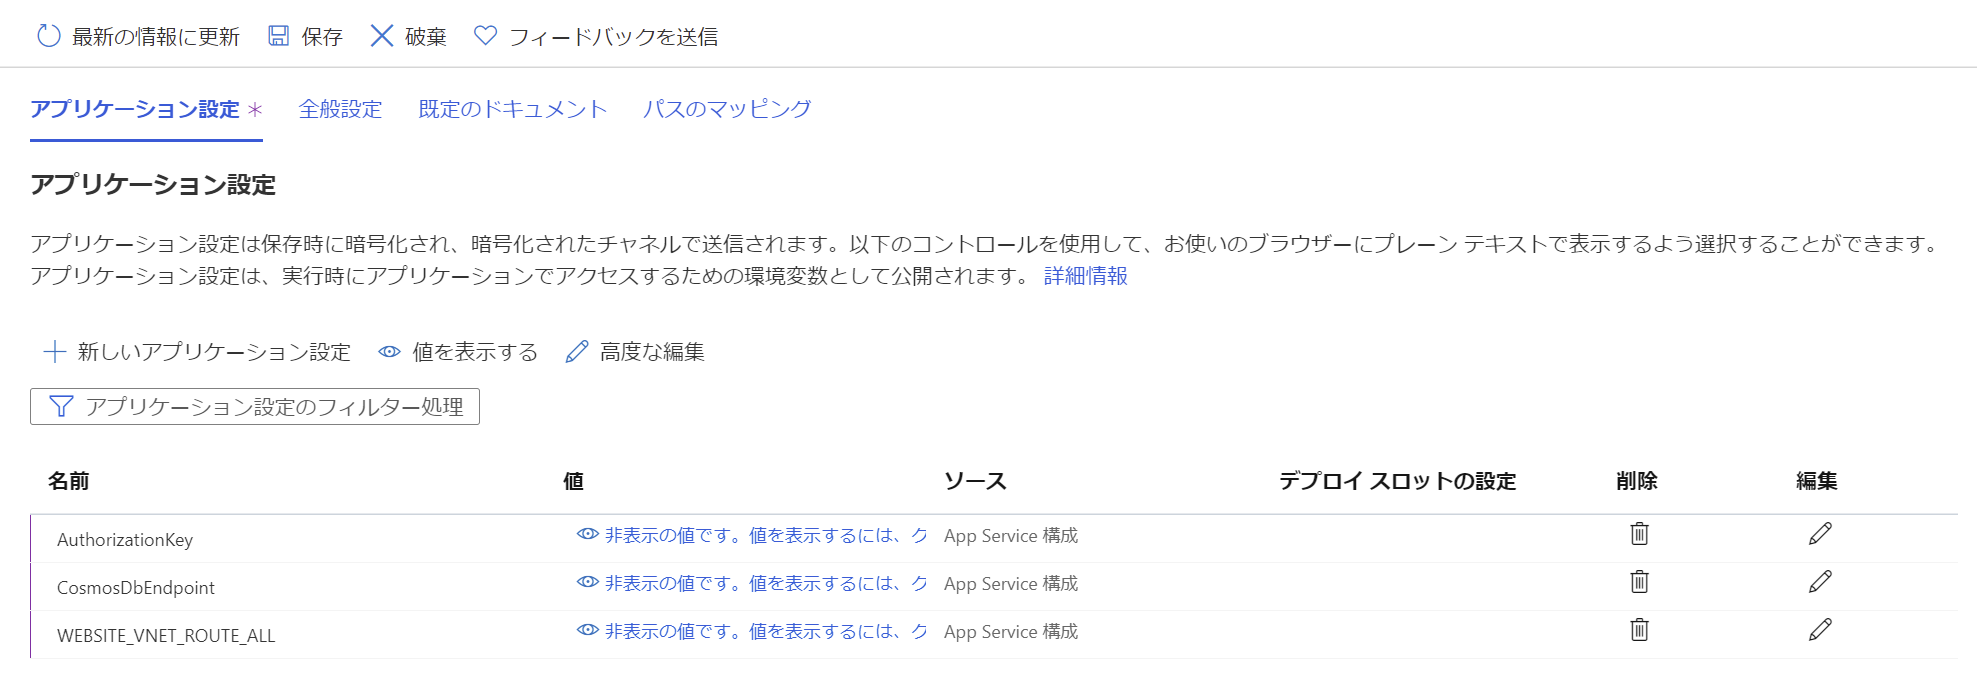
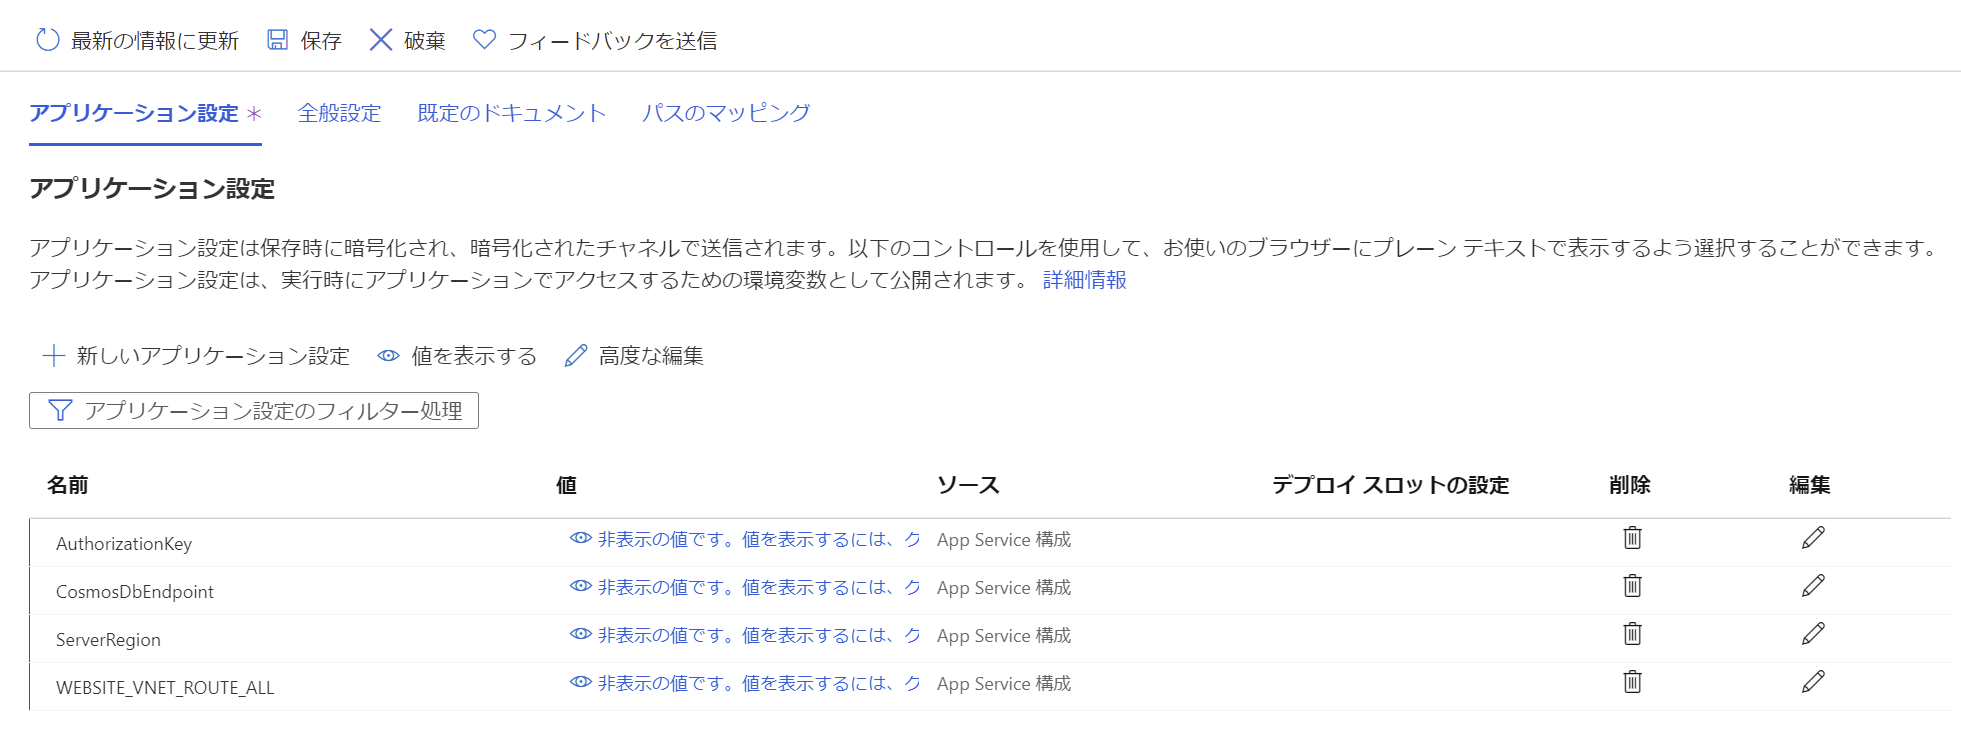
update

diff --git a/src/Web/Controllers/HomeController.cs b/src/Web/Controllers/HomeController.cs
@@ -29,9 +29,9 @@ public class HomeController : Controller
             CosmosClientOptions options = new CosmosClientOptions();
             options.ApplicationName = "App-Workshop";
 
-            if (serverRegion == "WestUS")
+            if (serverRegion == "JapanEast")
             {
-                options.ApplicationRegion = Regions.WestUS;
+                options.ApplicationRegion = Regions.JapanEast;
             }
             else if (serverRegion == "EastUS")
             {

diff --git a/HOL-step-by-step-Protect-and-Scale-Apps.md b/HOL-step-by-step-Protect-and-Scale-Apps.md
@@ -204,6 +204,8 @@ June 2022
 
   - **名前**: 任意（pl-cosmos-workshop-xxx など）
 
+  - **Network Interface Name**: 任意（既定のままで OK）
+
   - **地域**: 仮想ネットワークが展開されている地域を選択
 
     <img src="images/cosmos-private-endpoint-02.png" />
@@ -631,7 +633,7 @@ June 2022
 
   - **リソース グループ**: 任意（rg-worksohp-xx など）
 
-  - **リージョン**: (US) West US を選択
+  - **リージョン**: Japan East を選択
 
     <img src="images/create-resource-group-3.png" />
 
@@ -661,7 +663,7 @@ June 2022
 
   - **名前**: 任意（vnet-2 など）
 
-  - **地域**: (US) West US が選択されていることを確認
+  - **地域**: (Asia Pacific) Japan East が選択されていることを確認
 
     <img src="images/new-vnet-3.png" />
 
@@ -713,7 +715,7 @@ June 2022
 
     - **オペレーティング システム**: Windows
 
-    - **地域**: (US) West US が選択されていることを確認
+    - **地域**: (Asia Pacific) Japan East が選択されていることを確認
 
   - **App Service プラン**
 
@@ -777,7 +779,7 @@ June 2022
 
 - **リージョンの追加** をクリック
 
-- 読み取りリージョンに **West US** を選択し **OK** をクリック
+- 読み取りリージョンに **Japan East** を選択し **OK** をクリック
 
   <img src="images/replicate-db-2.png" />
 
@@ -833,7 +835,7 @@ June 2022
 
 - **仮想ネットワーク** タブでプライベート エンドポイントを作成する仮想ネットワーク、サブネットを選択
 
-  - **仮想ネットワーク**: West US へ作成した仮想ネットワーク
+  - **仮想ネットワーク**: Japan East へ作成した仮想ネットワーク
 
   - **サブネット**: Subnet-1 を選択
 
@@ -871,11 +873,13 @@ June 2022
 
     <img src="images/new-app-configuration-2.png" />
 
-- 同様の手順で２つアプリケーション設定を追加
+- 同様の手順で３つアプリケーション設定を追加
 
   - **名前**: AuthorizationKey　/　**値**: Cosmos DB アカウントのプライマリ キー
 
-  - **名前**: ServerRegion　/　**値**: WestUS
+  - **名前**: WEBSITE_VNET_ROUTE_ALL　/　**値**: 1
+
+  - **名前**: ServerRegion　/　**値**: JapanEast
 
 - **保存** をクリック
 
@@ -899,7 +903,7 @@ June 2022
 
   <img src="images/app-vnet-integration-03.png" />
 
-- West US へ作成した仮想ネットワークとその Subnet-2 を選択
+- Japan East へ作成した仮想ネットワークとその Subnet-2 を選択
 
 - 選択した仮想ネットワークが追加されることを確認
 
@@ -919,7 +923,7 @@ June 2022
 
   - **新しいリソースの名前**: 任意 (appi-workshop-xxx など)
 
-  - **場所**: West US
+  - **場所**: (Asia Pacific) Japan East
 
   - **Log Analytics ワークスペース**: ワークショップで使用している Log Analytics ワークスペースを選択
 
@@ -989,7 +993,7 @@ June 2022
 
   - **プライベート リンク**: プライベート リンク サービスを有効にするにチェック
 
-  - **Region**: (US) West US
+  - **Region**: Japan East
 
   - **ターゲット サブ リソース**: sites
 
